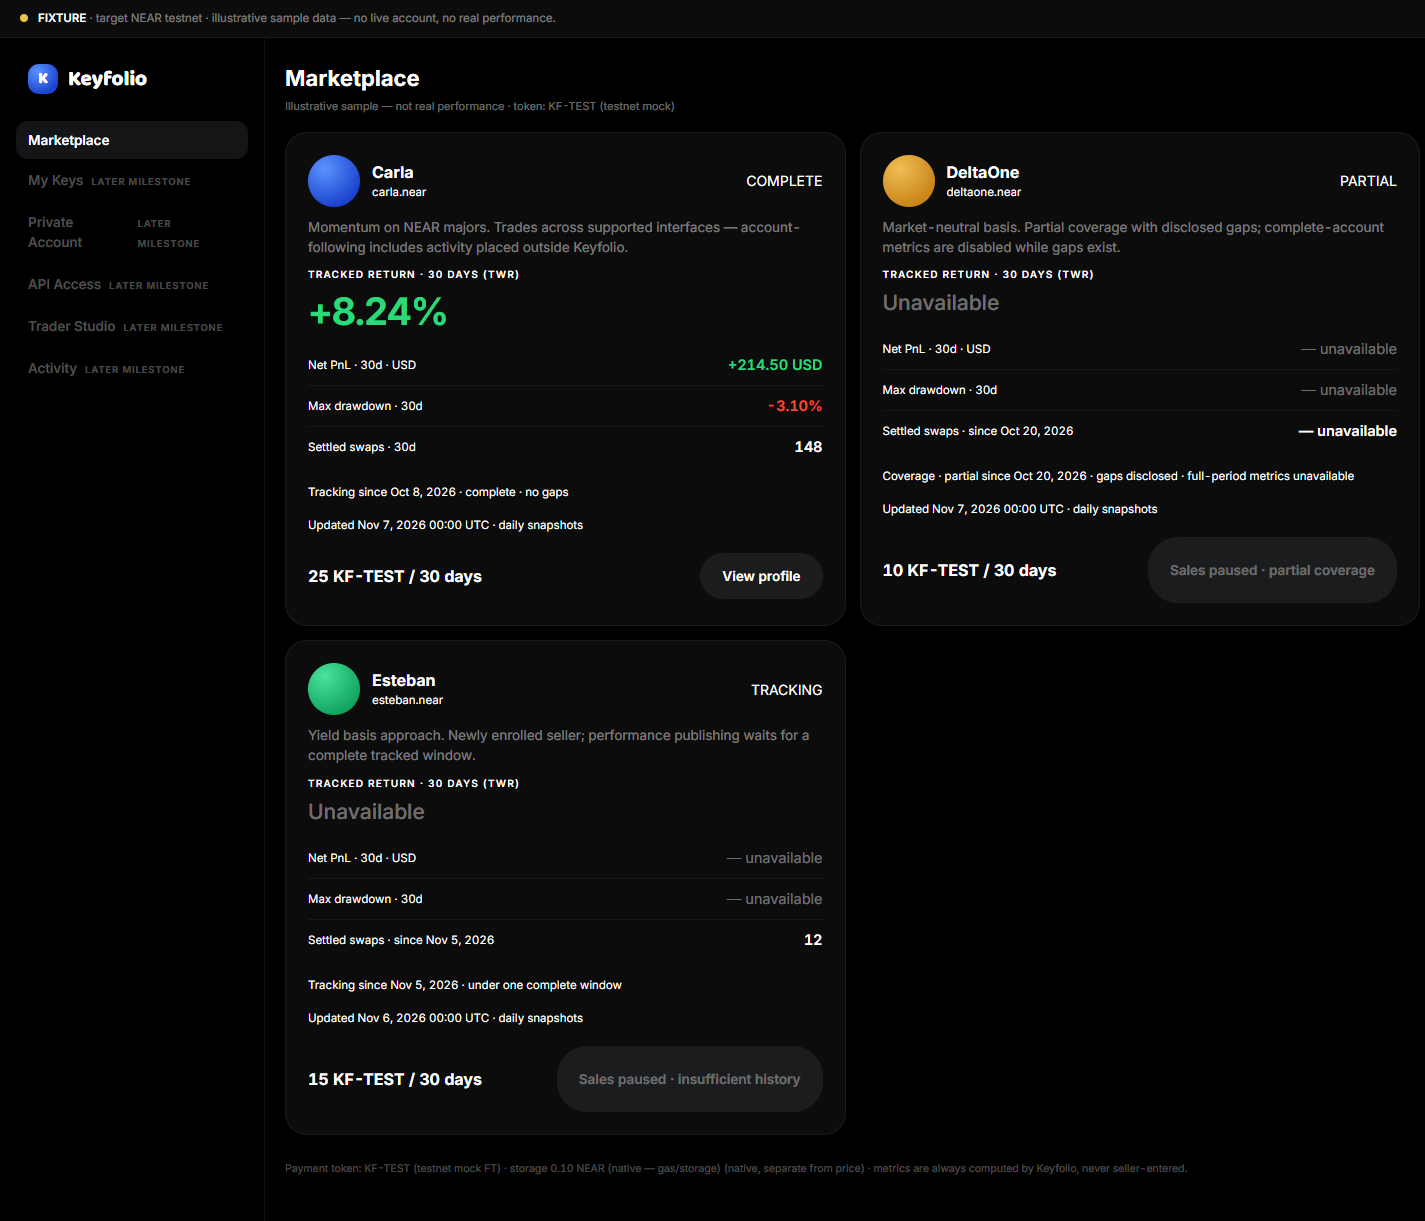
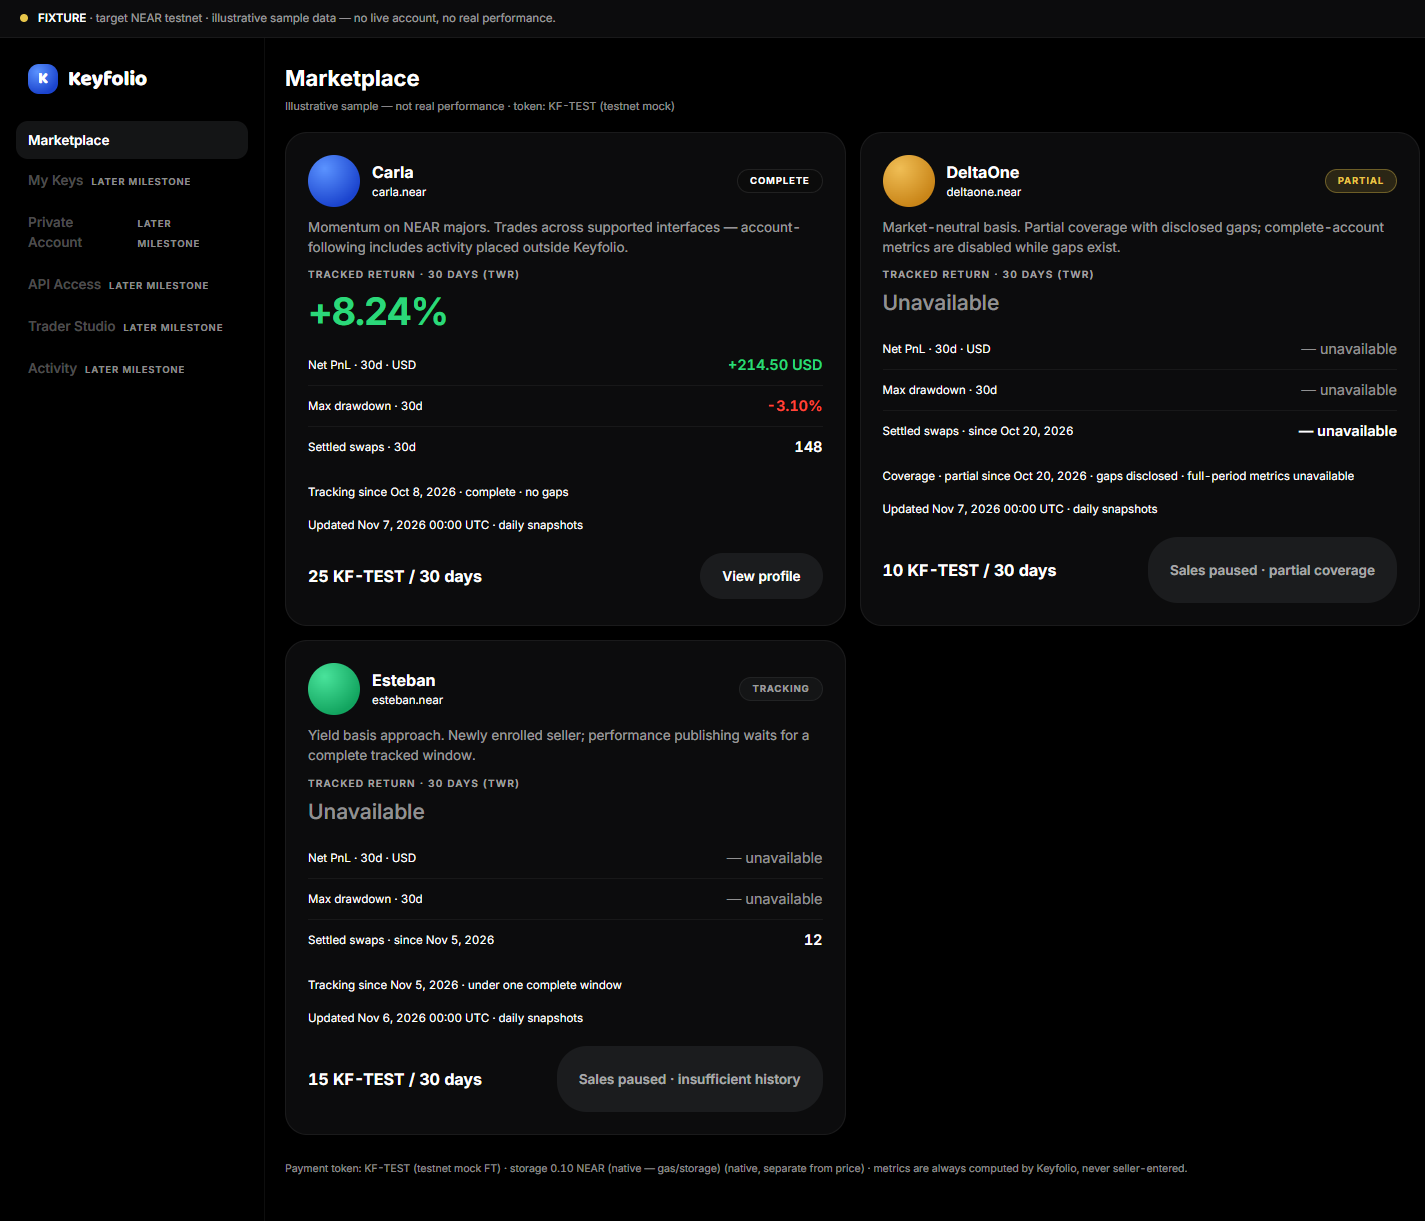
fix: pass-2 review - AA contrast on dark, Xorr coverage badges, hue discipline (KF-08b.1)
Reviewer pass 2 verdict CHANGES_REQUIRED with three required findings,
all fixed plus the NITs:

- MAJOR contrast: every text-bearing ink token raised to WCAG AA against
  its darkest background (ink45 .58, ink40/.38/.28 .55, ink35 .62);
  low-alpha values remain only on hairlines, borders and decoration.
- MAJOR badges: COMPLETE/PARTIAL/TRACKING coverage badges restyled in the
  Xorr language (white/ghost, amber, muted surface) - green/red stay
  reserved for P&L per KF-D016; chip-up/chip-down remain the only
  green/red classes and are now used.
- MINOR: undefined --ink32 defined at a compliant .62.
- Hue discipline: success chip is white-on-dark; config/mode errors use
  amber instead of P&L red.
- NITs: checkout/config wording points at apps/web/.env.local; SVG and
  orb colors reference var(--up) and seller.gradient (single-sourced);
  stale IBM-Plex/gutter evidence lines marked superseded.

Verification: pnpm check 95/95, mode matrix 4 modes x 3 routes PASSED
with zero fixture leaks outside FIXTURE, desktop screenshot refreshed.
Evidence updated (kf08b1-flow-evidence.md).

diff --git a/apps/web/src/app/globals.css b/apps/web/src/app/globals.css
@@ -11,11 +11,11 @@
   --ink: #ffffff;
   --ink70: rgba(255, 255, 255, 0.7);
   --ink55: rgba(255, 255, 255, 0.55);
-  --ink45: rgba(255, 255, 255, 0.45);
-  --ink40: rgba(255, 255, 255, 0.4);
-  --ink35: rgba(255, 255, 255, 0.35);
+  --ink45: rgba(255, 255, 255, 0.58);
+  --ink40: rgba(255, 255, 255, 0.55);
+  --ink35: rgba(255, 255, 255, 0.62);
   --ink30: rgba(255, 255, 255, 0.3);
-  --ink28: rgba(255, 255, 255, 0.28);
+  --ink28: rgba(255, 255, 255, 0.55);
   --hairline: rgba(255, 255, 255, 0.05);
   --hairline-strong: rgba(255, 255, 255, 0.055);
   --card-border: rgba(255, 255, 255, 0.06);
@@ -26,6 +26,7 @@
   --down: #ff453a;
   --down-bg: rgba(255, 69, 58, 0.14);
   --warn: #e8c64a;
+  --ink32: rgba(255, 255, 255, 0.62);
   --gutter: 20px;
 }
 
@@ -64,8 +65,8 @@ a:hover { text-decoration: none; }
   font-size: 11.5px; line-height: 1.45; color: var(--ink45);
 }
 .banner strong { color: var(--ink); font-weight: 600; }
-.banner-error { color: var(--down); }
-.banner-error strong { color: var(--down); }
+.banner-error { color: var(--warn); }
+.banner-error strong { color: var(--warn); }
 .dot { width: 8px; height: 8px; border-radius: 50%; flex: 0 0 auto; }
 .dot-warn { background: var(--warn); }
 .dot-block { background: var(--ink30); }
@@ -132,6 +133,16 @@ a:hover { text-decoration: none; }
 .seller-name { font-size: 16px; line-height: 21px; font-weight: 700; }
 .seller-handle { font-size: 11.5px; line-height: 16px; color: var(--ink38); }
 .seller-approach { font-size: 13.5px; line-height: 1.5; color: var(--ink45); margin: 0; }
+
+/* Coverage-state badges - NOT P&L: no green/red here (KF-D016) */
+.badge {
+  display: inline-block; border-radius: 999px; padding: 4px 12px;
+  font-size: 9.5px; line-height: 14px; font-weight: 700;
+  letter-spacing: 0.09em; text-transform: uppercase;
+}
+.badge-ok { background: #0b0b0b; color: var(--ink); border: 1px solid var(--ghost-border); }
+.badge-warn { background: rgba(232, 198, 74, 0.14); color: var(--warn); border: 1px solid rgba(232, 198, 74, 0.35); }
+.badge-muted { background: var(--surface-alt); color: var(--ink45); border: 1px solid var(--card-border); }
 
 /* Identity orb — Xorr AgentOrb recipe */
 .orb {
@@ -240,10 +251,10 @@ a:hover { text-decoration: none; }
 .refund-note p { margin: 0; color: var(--ink45); font-size: 11.5px; line-height: 1.5; }
 .state-chip { border-radius: 18px; padding: 12px 16px; font-size: 12.5px; line-height: 18px; font-weight: 600; }
 .chip-pending { background: rgba(232, 198, 74, 0.12); color: var(--warn); }
-.chip-success { background: var(--up); color: var(--up-ink); }
+.chip-success { background: var(--ink); color: #0b0b0b; }
 
 .panel { background: var(--surface); border: 1px solid var(--card-border); border-radius: 22px; padding: 18px; }
-.note-error { color: var(--down); border-color: rgba(255, 69, 58, 0.3); }
+.note-error { color: var(--warn); border-color: rgba(232, 198, 74, 0.35); }
 .note-error .terms-text { color: var(--ink70); }
 
 /* Mobile: sidebar becomes a top bar; content gutter 16px */

diff --git a/apps/web/src/app/traders/[id]/page.tsx b/apps/web/src/app/traders/[id]/page.tsx
@@ -26,8 +26,8 @@ function TwrChart() {
       <svg viewBox={`0 0 ${W} ${H}`} role="img" aria-label="Tracked return (TWR) over the last 30 days, from 0% to +8.24%" className="chart-svg">
         <defs>
           <linearGradient id="twr-fill" x1="0" y1="0" x2="0" y2="1">
-            <stop offset="0%" stopColor="#2BD87A" stopOpacity="0.28" />
-            <stop offset="100%" stopColor="#2BD87A" stopOpacity="0" />
+            <stop offset="0%" stopColor="var(--up)" stopOpacity="0.28" />
+            <stop offset="100%" stopColor="var(--up)" stopOpacity="0" />
           </linearGradient>
         </defs>
         {grid.map((g) => (
@@ -37,8 +37,8 @@ function TwrChart() {
           </g>
         ))}
         <polygon points={`${padL},${H - padB} ${pts.join(' ')} ${W - 16},${H - padB}`} className="chart-area" stroke="none" />
-        <polyline points={pts.join(' ')} fill="none" stroke="#2BD87A" strokeWidth="2" strokeLinejoin="round" strokeLinecap="round" />
-        <circle cx={pts[pts.length - 1].split(',')[0]} cy={pts[pts.length - 1].split(',')[1]} r="3.2" fill="#2BD87A" />
+        <polyline points={pts.join(' ')} fill="none" stroke="var(--up)" strokeWidth="2" strokeLinejoin="round" strokeLinecap="round" />
+        <circle cx={pts[pts.length - 1].split(',')[0]} cy={pts[pts.length - 1].split(',')[1]} r="3.2" fill="var(--up)" />
         {[
           { i: 0 },
           { i: Math.floor(CARLA_TWR_SERIES.length / 2) },
@@ -98,7 +98,7 @@ export default async function TraderPage({ params }: { params: Promise<{ id: str
           <span
             className="orb"
             aria-hidden="true"
-            style={{ background: 'radial-gradient(circle at 32% 26%, #5B93FF, #1B44CE 74%)' }}
+            style={{ background: `radial-gradient(circle at 32% 26%, ${seller.gradient[0]}, ${seller.gradient[1]} 74%)` }}
           />
           <div>
             <h1 id="page-title" className="page-title">{p.name}</h1>

diff --git a/apps/web/src/app/checkout/[id]/page.tsx b/apps/web/src/app/checkout/[id]/page.tsx
@@ -18,7 +18,7 @@ export default async function CheckoutPage({ params }: { params: Promise<{ id: s
         <h1 id="page-title" className="page-title">Checkout</h1>
         <div className="panel note-error" role="status">
           <p className="terms-text">
-            Configuration error: {cfg.error} — copy .env.example to .env and set KEYFOLIO_MODE.
+            Configuration error: {cfg.error} — copy .env.example (in apps/web) to apps/web/.env.local and set KEYFOLIO_MODE.
             No order data is shown until the mode is configured.
           </p>
         </div>

diff --git a/apps/web/src/config.ts b/apps/web/src/config.ts
@@ -1,5 +1,5 @@
 // Web config resolution. FAIL-CLOSED like the rest of Keyfolio: KEYFOLIO_MODE
-// is required (copy .env.example to .env). FIXTURE mode serves the clearly
+// is required (copy apps/web/.env.example to apps/web/.env.local). FIXTURE mode serves the clearly
 // labeled illustrative data; TESTNET/LIVE have no data source wired yet, so
 // data sections render an explicit not-connected state instead of fixtures.
 

diff --git a/apps/web/src/fixture.ts b/apps/web/src/fixture.ts
@@ -123,6 +123,7 @@ export const CARLA_TWR_SERIES: { date: string; pct: number }[] = [
 ];
 
 export const CARLA_PROFILE = {
+  gradient: ['#5B93FF', '#1B44CE'] as [string, string],
   name: 'Carla',
   handle: 'carla.near',
   approach: 'Momentum on NEAR majors · tracking since Oct 8, 2026',

diff --git a/docs/evidence/KF-08/kf08b1-flow-evidence.md b/docs/evidence/KF-08/kf08b1-flow-evidence.md
@@ -56,6 +56,22 @@ states the target network (NEAR testnet); verify-web-modes guards against stale-
 attachment are documented — fixed ports remain but each mode asserts its own banner/mode text
 via the route content checks (a wrong-env server fails the marker assertions).
 
+## Reviewer pass 2 (2026-11-09) — CHANGES_REQUIRED, all 3 required findings + NITs fixed
+
+1. Coverage badges restyled in the Xorr language (COMPLETE = white on black
+with ghost border, PARTIAL = amber, TRACKING = muted surface) - green/red
+stay P&L-only per KF-D016.
+2. Dark-theme contrast raised to WCAG AA on every text-bearing ink token
+(ink45 -> .58, ink40/.38/.28 -> .55, ink35 -> .62; low alphas remain only
+on hairlines/borders/decoration); undefined --ink32 now defined at .62.
+3. Non-P&L hue discipline: success chip is white-on-dark, config/mode
+errors use amber - red/green appear only in P&L contexts.
+NITs: checkout config wording points at apps/web/.env.local, SVG/orb
+colors reference tokens and seller.gradient (single-sourced), stale
+IBM-Plex/gutter evidence lines superseded, verify-web-modes stale-server
+risk stays documented (dev script). Re-verified: pnpm check 95/95 + mode
+matrix PASSED + desktop/mobile screenshots refreshed.
+
 ## Xorr restyle (KF-D016) applied in the same pass
 
 globals.css rewritten to the Xorr language: true black bg, dark surfaces, hairlines, ink scale,
